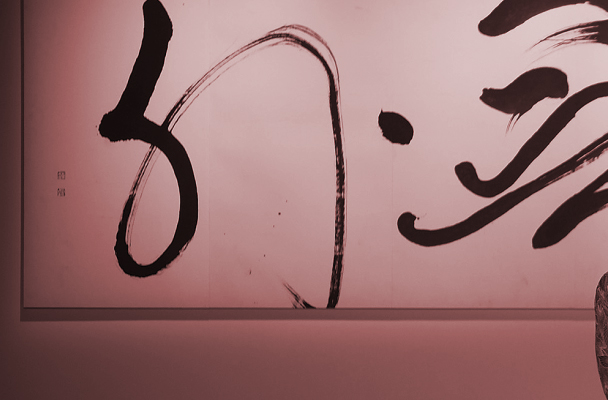
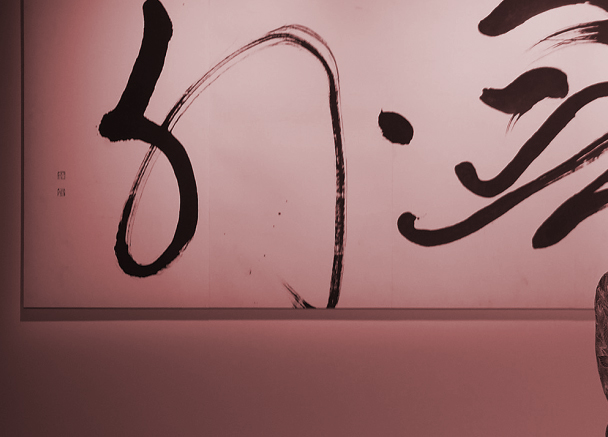
master小螢幕微調

diff --git a/css/styles.css b/css/styles.css
@@ -168,7 +168,7 @@ header .wallet {
 
 #master {
   position: relative;
-  padding: 160px calc(50svw - 600px);
+  padding: 8svw calc(50svw - 600px);
   line-height: 128px;
 }
 #master h2 {
@@ -185,7 +185,7 @@ header .wallet {
   width: 50svw;
   height: 25svw;
   right: calc(50svw - 600px);
-  top: 368px;
+  top: calc(8svw + 200px);
 }
 #master .accord-wrapper {
   overflow: hidden;

diff --git a/pre/scss/_layout.scss b/pre/scss/_layout.scss
@@ -106,7 +106,7 @@ header {
 
 #master {
     position: relative;
-    padding: 160px calc(50svw - 600px);
+    padding: 8svw calc(50svw - 600px);
     line-height: 128px;
 
     h2 {
@@ -125,7 +125,7 @@ header {
         width: 50svw;
         height: 25svw;
         right: calc(50svw - 600px);
-        top: 368px;
+        top: calc(8svw + 200px);
     }
 
     .accord-wrapper {
